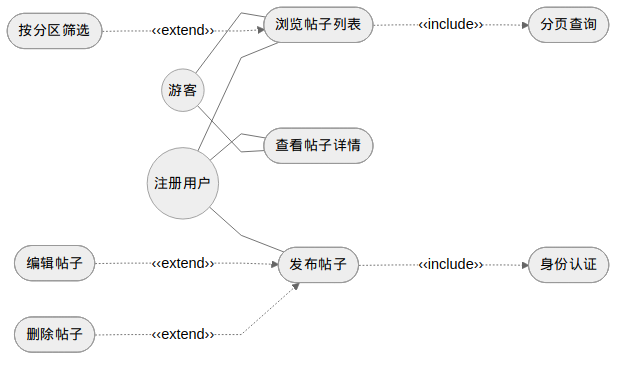
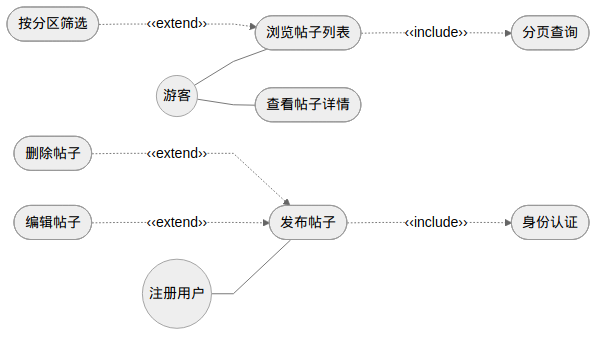
docs: 图3-3/3-4消除交叉(每个Actor仅连其独有用例), 同步更新正文说明

diff --git a/docs/第三章 系统需求分析.md b/docs/第三章 系统需求分析.md
@@ -20,13 +20,13 @@
 
 （2）帖子管理
 
-帖子管理是论坛系统的核心功能。注册用户发布帖子时需选择目标分区并填写标题和正文，发布操作包含（include）身份认证校验。帖子发布后，编辑和删除操作作为发布的扩展（extend），仅在当前用户为帖子作者时可用。游客和注册用户均可浏览帖子列表，列表浏览包含（include）分页查询，并可扩展（extend）按分区筛选。点击帖子进入详情页，展示帖子正文、所属分区、评论列表和点赞数量。帖子管理模块的用例如图 3-3 所示。
+帖子管理是论坛系统的核心功能，用例按参与者分为两组。游客可浏览帖子列表和查看帖子详情，列表浏览包含（include）分页查询，并可扩展（extend）按分区筛选；点击帖子进入详情页，展示帖子正文、所属分区、评论列表和点赞数量。注册用户在拥有游客全部浏览能力的基础上，还可发布帖子，发布操作包含（include）身份认证校验；帖子发布后，编辑和删除操作作为发布的扩展（extend），仅在当前用户为帖子作者时可用。帖子管理模块的用例如图 3-3 所示。
 
 （图 3-3 帖子管理模块用例图）
 
 （3）评论互动
 
-评论功能支持二级结构，注册用户可对帖子发表一级评论，也可对已有评论进行回复形成二级评论。发表评论和回复评论均包含（include）身份认证校验。评论发表后，编辑和删除操作作为扩展（extend），仅在当前用户为评论作者时可用。游客可在帖子详情页浏览评论列表，但不能发表或操作评论。评论互动模块的用例如图 3-4 所示。
+评论功能支持二级结构，用例同样按参与者分为两组。游客可在帖子详情页浏览评论列表，但不能发表或操作评论。注册用户可对帖子发表一级评论，也可对已有评论进行回复形成二级评论，发表评论和回复评论均包含（include）身份认证校验；评论发表后，编辑和删除操作作为扩展（extend），仅在当前用户为评论作者时可用。评论互动模块的用例如图 3-4 所示。
 
 （图 3-4 评论互动模块用例图）
 
